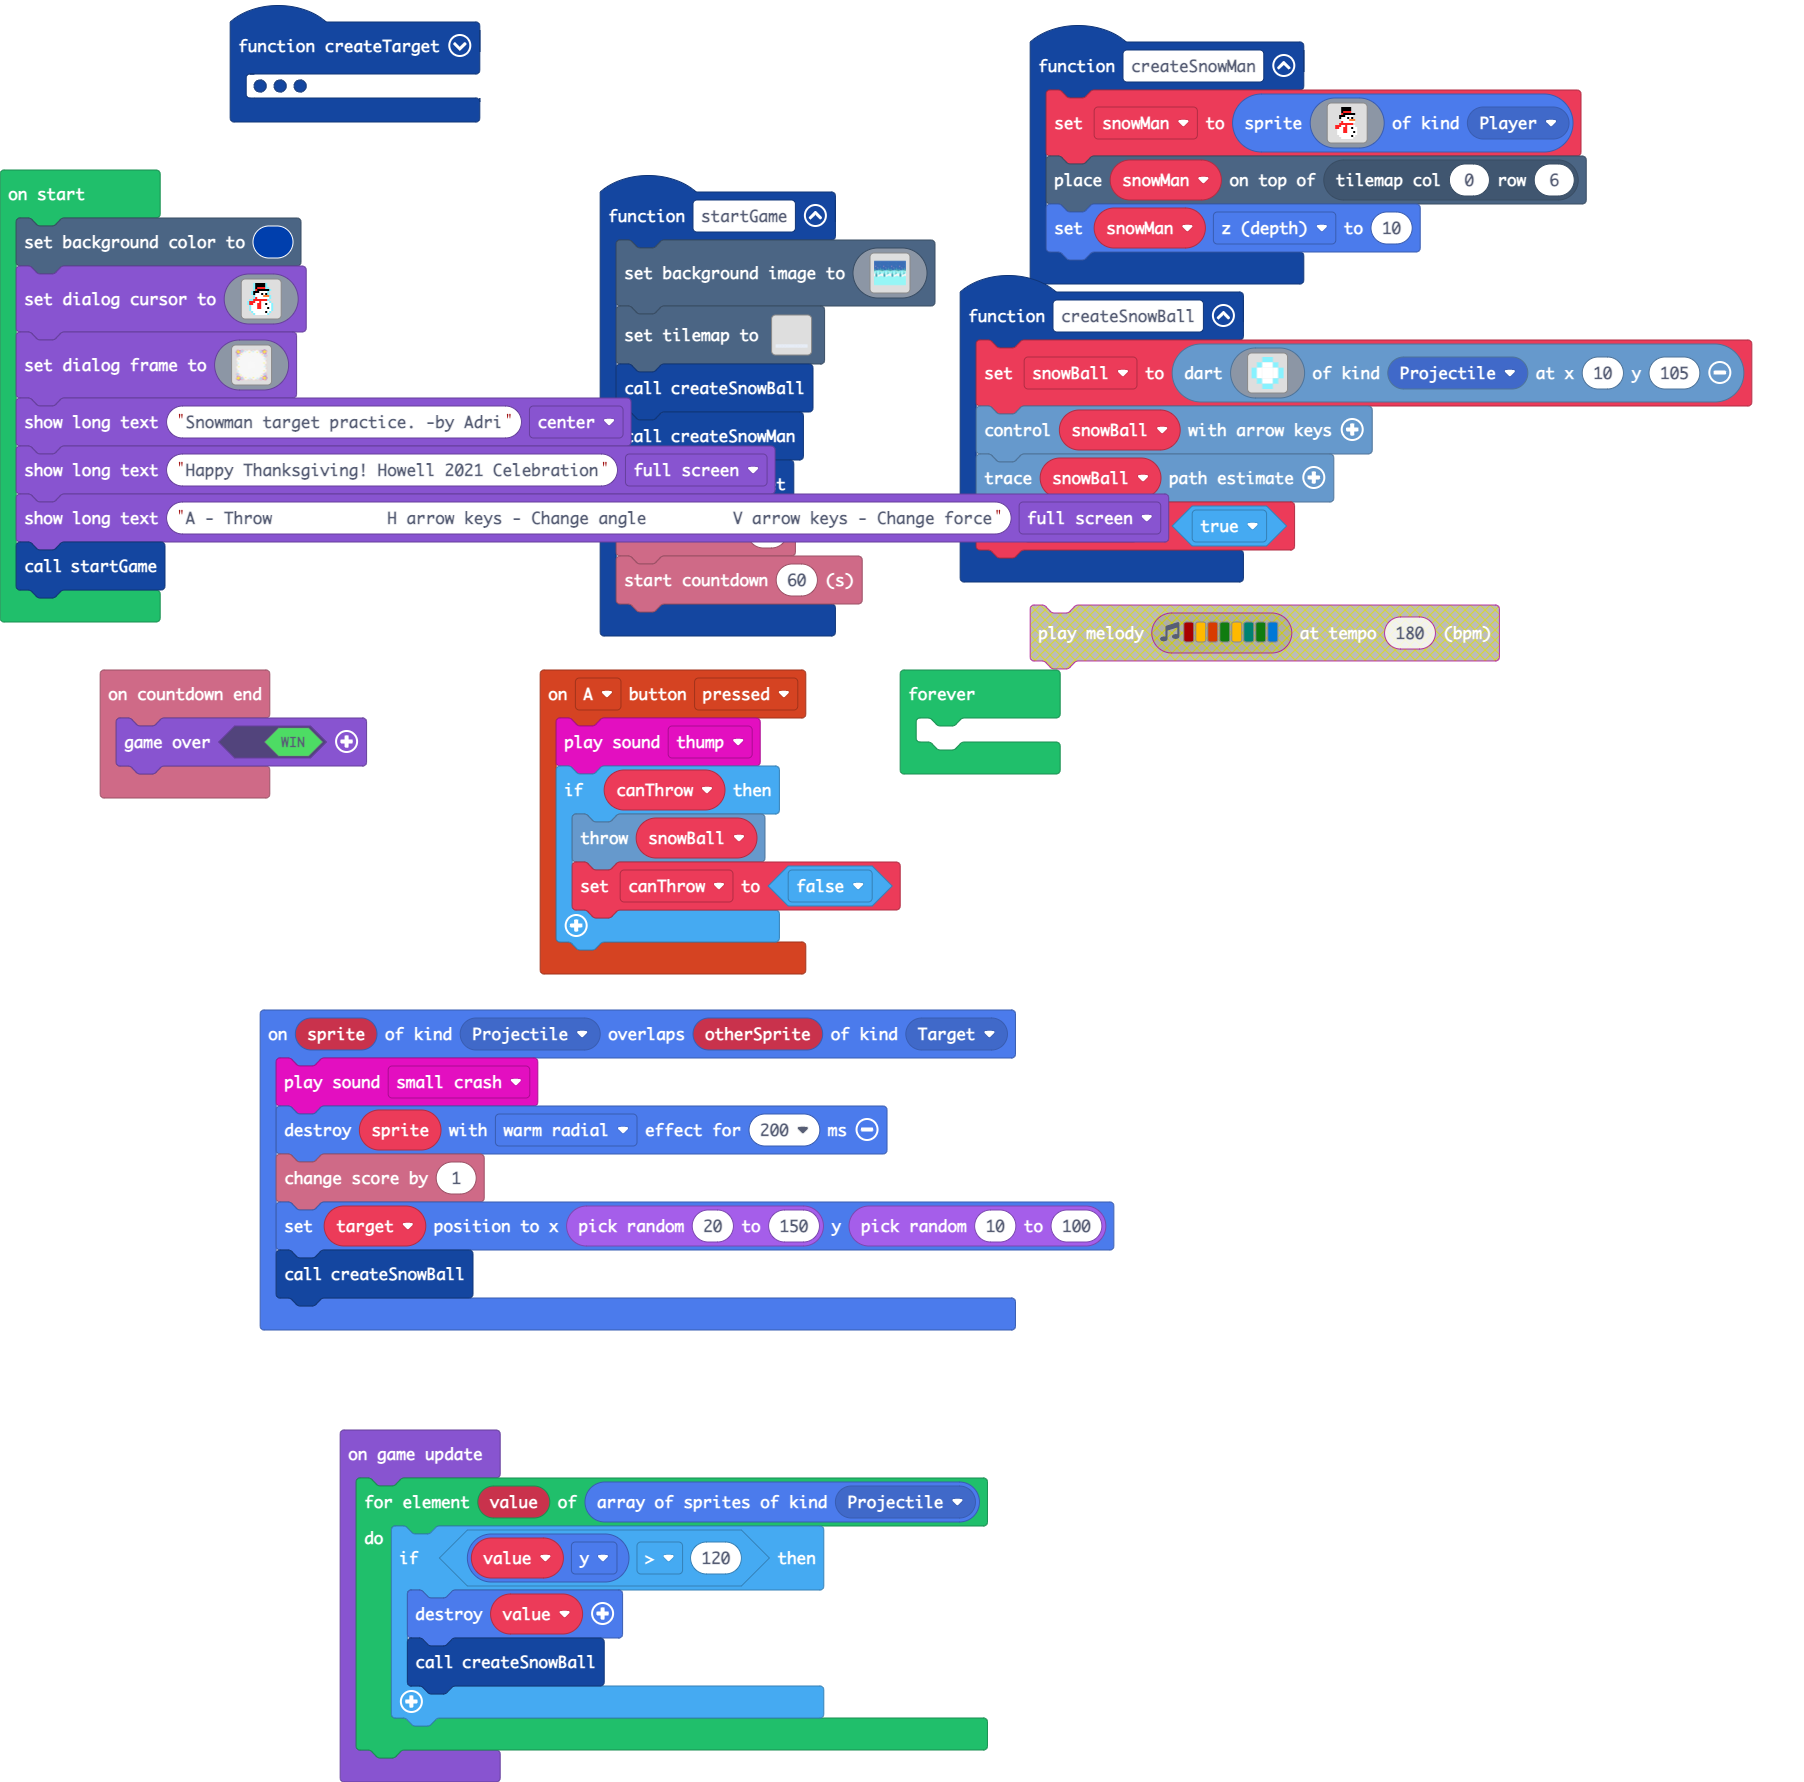
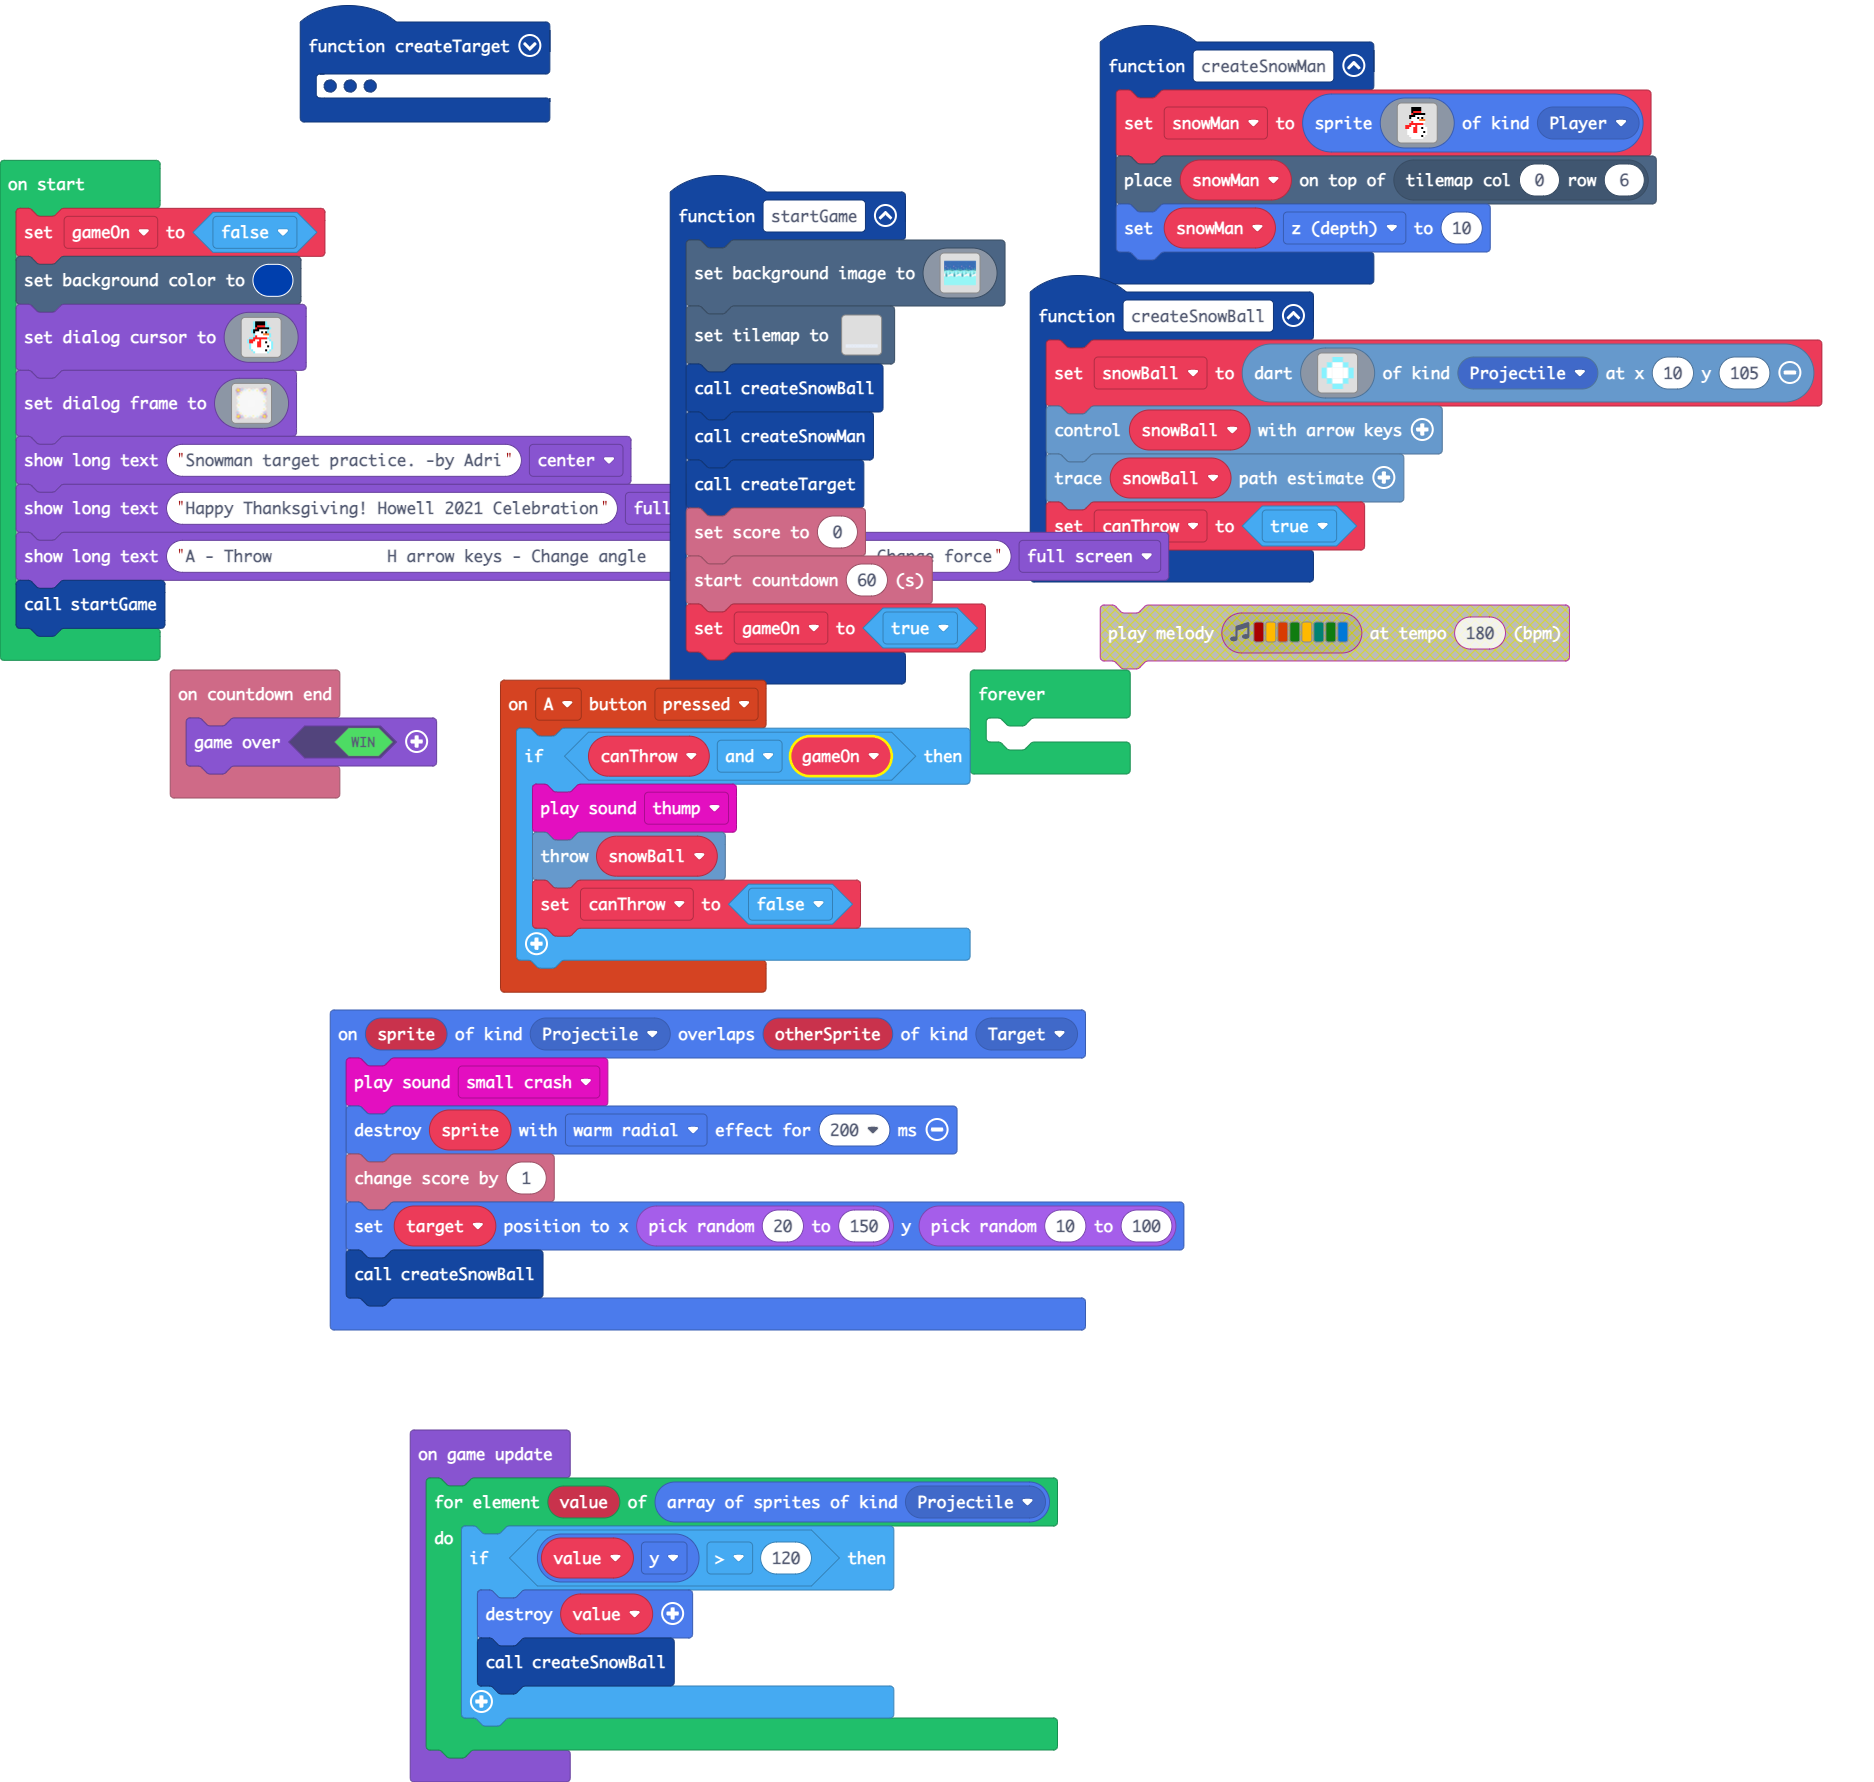
Update pxt.json, main.blocks, main.ts

diff --git a/main.ts b/main.ts
@@ -24,8 +24,8 @@ function createSnowMan () {
     snowMan.z = 10
 }
 controller.A.onEvent(ControllerButtonEvent.Pressed, function () {
-    music.thump.play()
-    if (canThrow) {
+    if (canThrow && gameOn) {
+        music.thump.play()
         snowBall.throwDart()
         canThrow = false
     }
@@ -159,6 +159,7 @@ function startGame () {
     createTarget()
     info.setScore(0)
     info.startCountdown(60)
+    gameOn = true
 }
 sprites.onOverlap(SpriteKind.Projectile, SpriteKind.Target, function (sprite, otherSprite) {
     music.smallCrash.play()
@@ -208,6 +209,8 @@ let target: Sprite = null
 let snowBall: Dart = null
 let canThrow = false
 let snowMan: Sprite = null
+let gameOn = false
+gameOn = false
 scene.setBackgroundColor(8)
 game.setDialogCursor(img`
     . . . . 9 f f f f f 9 . . . . . 
